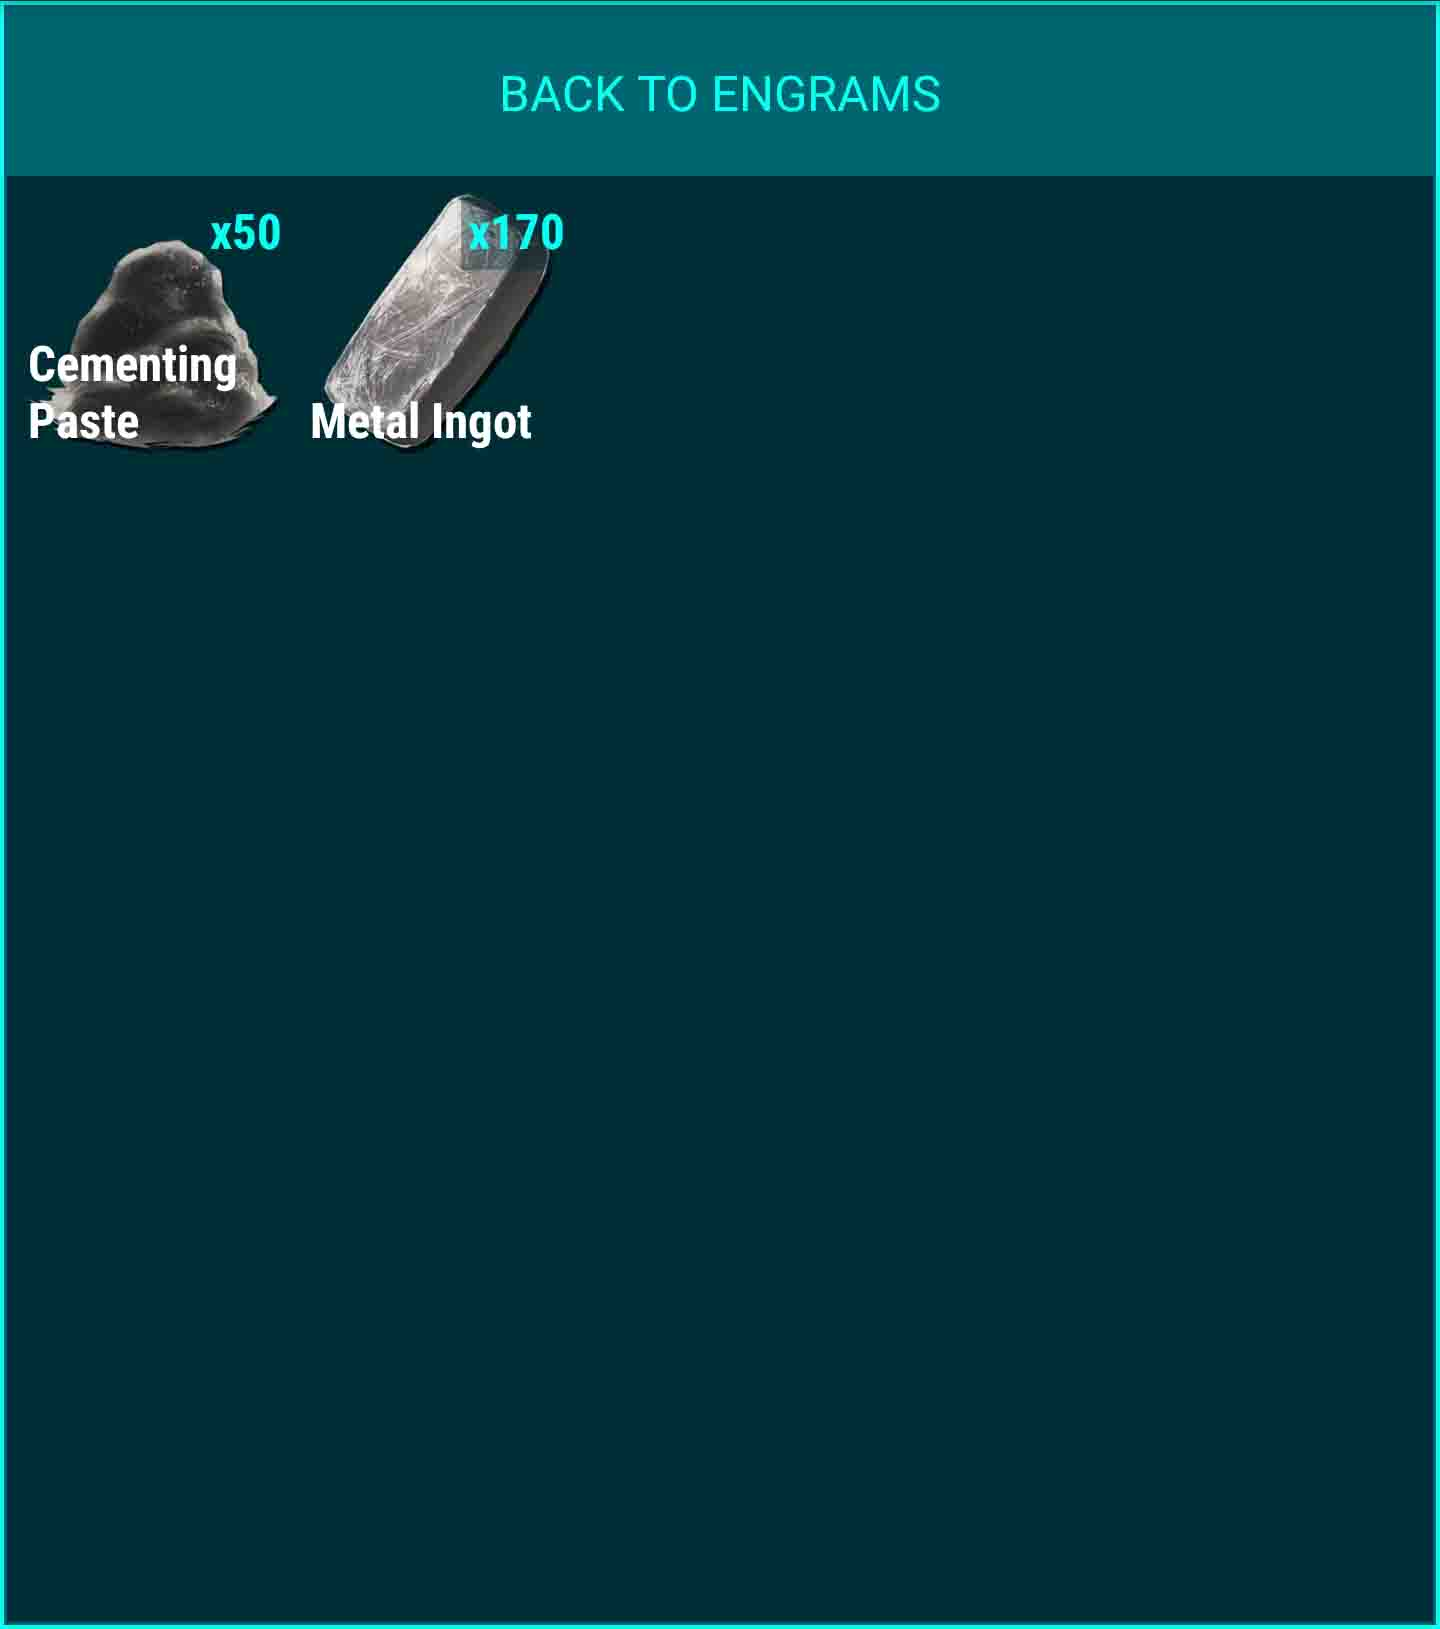
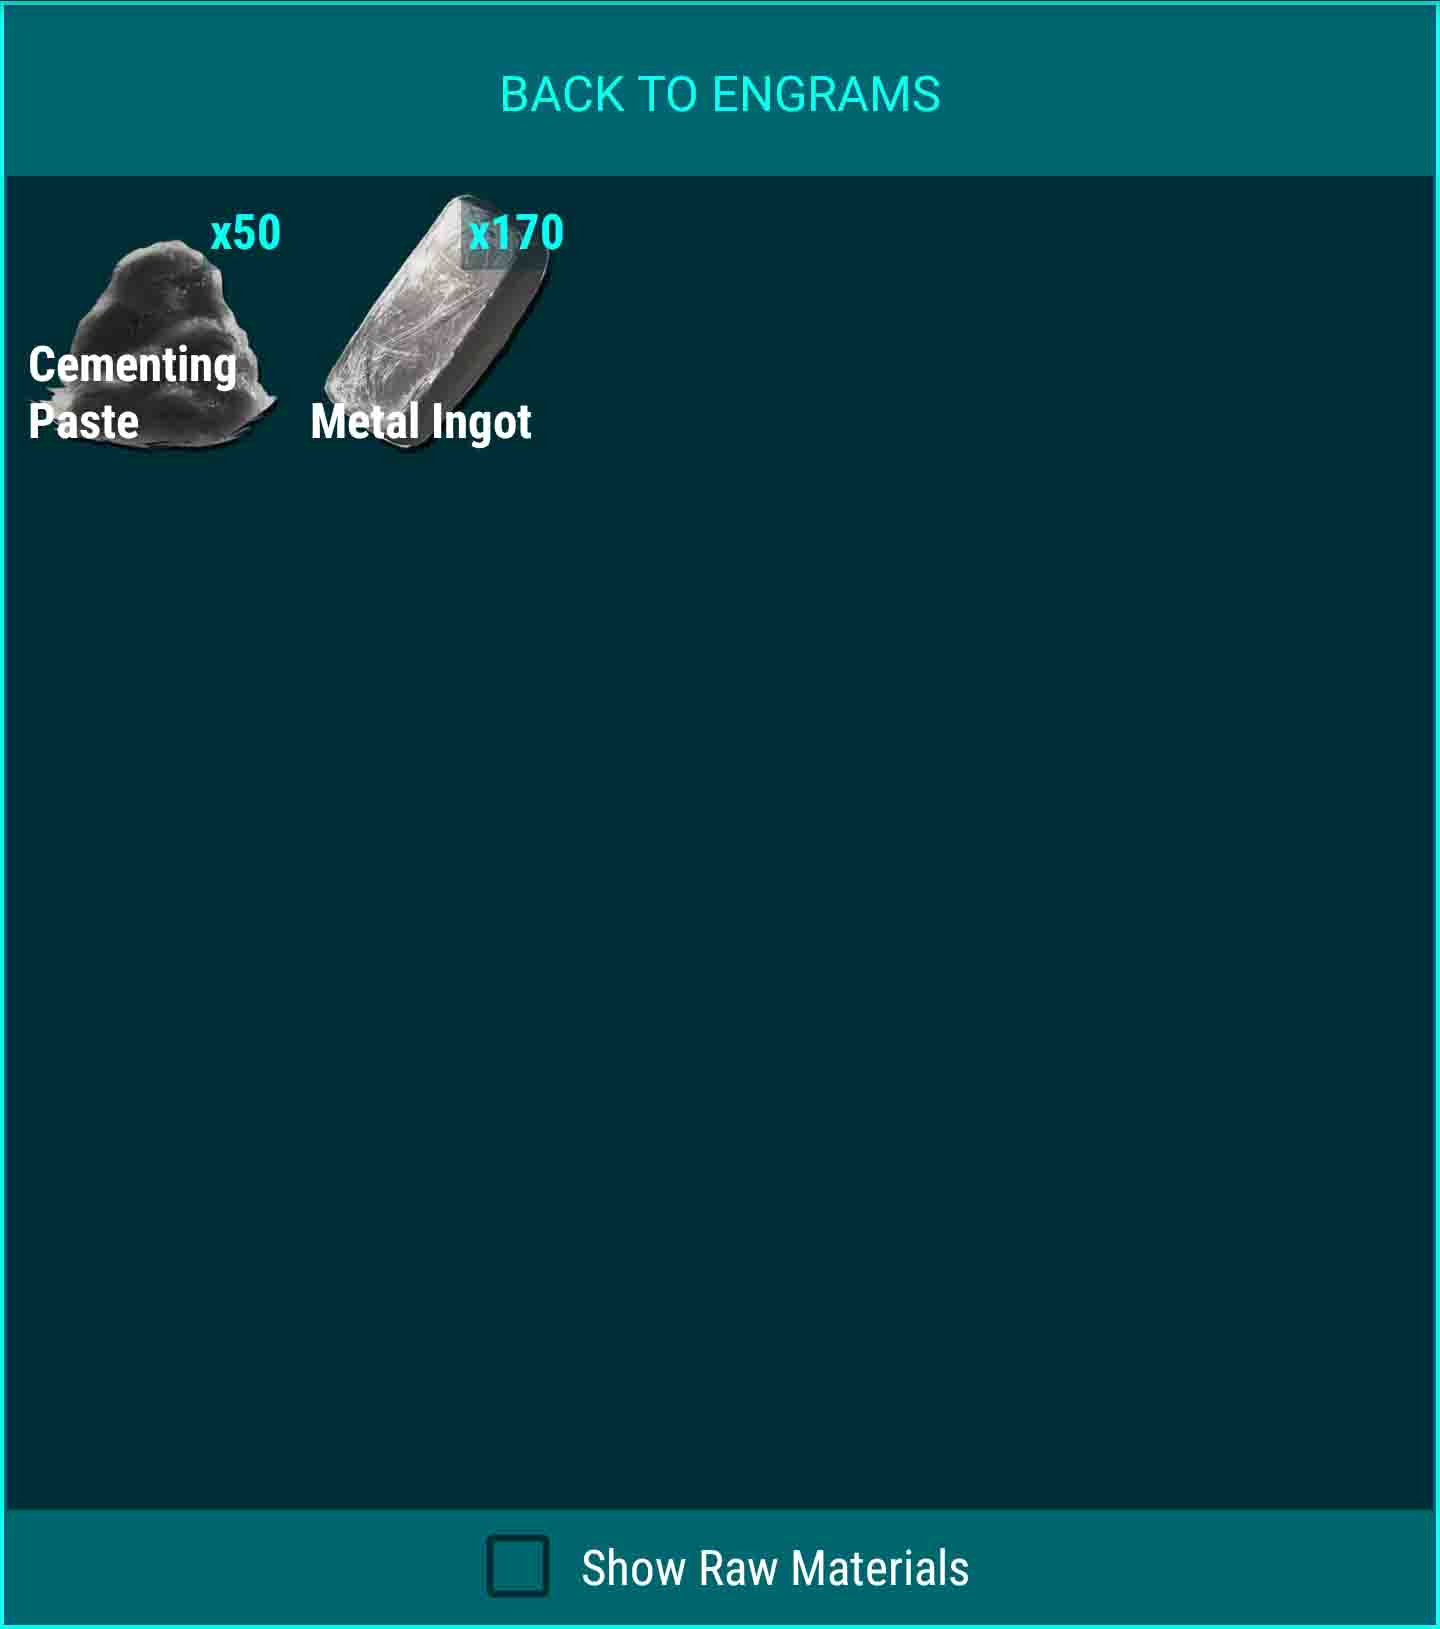
1.3.13 (Release)
Added Show Raw Materials to Tutorial.
Updated CraftableAdapter to cancel tasks before executing new tasks.
Updated Element in Resource Table of JSON file to not be Complex. Created a weird infinite loop between Element Shard and Element.
Updated changelog.

Changed region(s): [[0.0, 0.9208, 1.0, 1.0]]

diff --git a/app/src/main/java/arc/resource/calculator/adapters/CraftableAdapter.java b/app/src/main/java/arc/resource/calculator/adapters/CraftableAdapter.java
@@ -77,6 +77,9 @@ public class CraftableAdapter extends RecyclerView.Adapter<CraftableAdapter.View
 
     private Status mViewStatus;
 
+    private FetchDataTask mFetchDataTask;
+    private SearchDataTask mSearchDataTask;
+
     private boolean mNeedsUpdate;
 
     private boolean mNeedsFullUpdate;
@@ -164,7 +167,7 @@ public class CraftableAdapter extends RecyclerView.Adapter<CraftableAdapter.View
                     unsetSearchQuery();
 
                     if ( mViewStatus == VISIBLE ) {
-                        refreshData();
+                        fetchData();
                     } else {
                         mNeedsFullUpdate = true;
                     }
@@ -174,8 +177,11 @@ public class CraftableAdapter extends RecyclerView.Adapter<CraftableAdapter.View
 
         mViewStatus = INIT;
 
+        mFetchDataTask = new FetchDataTask();
+        mSearchDataTask = new SearchDataTask();
+
         if ( getSearchQuery() == null )
-            refreshData();
+            fetchData();
         else
             searchData();
     }
@@ -257,7 +263,7 @@ public class CraftableAdapter extends RecyclerView.Adapter<CraftableAdapter.View
             mViewStatus = VISIBLE;
 
             if ( mNeedsFullUpdate )
-                refreshData();
+                fetchData();
             else if ( mNeedsUpdate )
                 updateQuantities();
         }
@@ -663,7 +669,7 @@ public class CraftableAdapter extends RecyclerView.Adapter<CraftableAdapter.View
 
         savePrefs();
 
-        refreshData();
+        fetchData();
     }
 
     private Category queryForCategory( Uri uri )
@@ -740,7 +746,7 @@ public class CraftableAdapter extends RecyclerView.Adapter<CraftableAdapter.View
 
         savePrefs();
 
-        refreshData();
+        fetchData();
     }
 
     private Station queryForStation( Uri uri )
@@ -850,13 +856,20 @@ public class CraftableAdapter extends RecyclerView.Adapter<CraftableAdapter.View
         return builder.toString();
     }
 
-    private void refreshData() {
-        Log.d( TAG, "refreshData: " );
-        new QueryForDataTask().execute();
+    private void fetchData() {
+        mFetchDataTask.cancel( true );
+        mSearchDataTask.cancel( true );
+
+        mFetchDataTask = new FetchDataTask();
+        mFetchDataTask.execute();
     }
 
     private void searchData() {
-        new SearchDataTask().execute();
+        mFetchDataTask.cancel( true );
+        mSearchDataTask.cancel( true );
+
+        mSearchDataTask = new SearchDataTask();
+        mSearchDataTask.execute();
     }
 
     public void searchData( String searchQuery ) {
@@ -864,8 +877,8 @@ public class CraftableAdapter extends RecyclerView.Adapter<CraftableAdapter.View
         new SearchDataTask().execute();
     }
 
-    private class QueryForDataTask extends AsyncTask<Void, Void, Boolean> {
-        private final String TAG = QueryForDataTask.class.getSimpleName();
+    private class FetchDataTask extends AsyncTask<Void, Void, Boolean> {
+        private final String TAG = FetchDataTask.class.getSimpleName();
 
         private StationMap mTempStationMap;
         private CategoryMap mTempCategoryMap;
@@ -873,7 +886,7 @@ public class CraftableAdapter extends RecyclerView.Adapter<CraftableAdapter.View
 
         private Exception mException;
 
-        QueryForDataTask() {
+        FetchDataTask() {
         }
 
         @Override

diff --git a/app/src/main/java/arc/resource/calculator/adapters/InventoryAdapter.java b/app/src/main/java/arc/resource/calculator/adapters/InventoryAdapter.java
@@ -5,6 +5,7 @@ import android.database.Cursor;
 import android.net.Uri;
 import android.os.AsyncTask;
 import android.support.v7.widget.RecyclerView;
+import android.util.Log;
 import android.util.LongSparseArray;
 import android.view.LayoutInflater;
 import android.view.View;
@@ -225,11 +226,13 @@ public class InventoryAdapter extends RecyclerView.Adapter<InventoryAdapter.View
 
                 // check if refined filter is enabled
                 if ( mShowRawMaterials ) {
+                    Log.d( TAG, "QueryForComposition: showRawMaterials" );
                     // check if resource_id is complex
                     long engram_id = QueryForComplexResource( DatabaseContract.ComplexResourceEntry.buildUriWithResourceId( resource_id ) );
 
                     // if complex, return engram_id
                     if ( engram_id > NO_ID ) {
+                        Log.d( TAG, "QueryForComposition: engram_id is valid as complex resource" );
                         // query for composition with update uri built with engram_id
                         InventoryMap composition = QueryForComposition( DatabaseContract.CompositionEntry.buildUriWithEngramId( dlc_id, engram_id ) );
 
@@ -248,7 +251,7 @@ public class InventoryAdapter extends RecyclerView.Adapter<InventoryAdapter.View
                             else
                                 resource.increaseQuantity( tempResource.getQuantity() * quantity );
 
-                           inventoryMap.put( resource.getId(), resource );
+                            inventoryMap.put( resource.getId(), resource );
                         }
                     } else {
                         inventoryMap.add( resource_id,
@@ -418,6 +421,29 @@ public class InventoryAdapter extends RecyclerView.Adapter<InventoryAdapter.View
         InventoryMap() {
             super();
         }
+
+//        @Override
+//        public void add( long key, Object value ) {
+//            // check if key/value pair was added or not (if new or stored value)
+//            if ( contains( key ) ) {
+//                // update key/value pair with converged value
+//                CompositeResource tempResource = ( CompositeResource ) value;
+//
+//                CompositeResource resource = get( tempResource.getId() );
+//                if ( resource == null )
+//                    resource = new CompositeResource(
+//                            tempResource.getId(),
+//                            tempResource.getName(),
+//                            tempResource.getFolder(),
+//                            tempResource.getFile(),
+//                            tempResource.getQuantity() * queueEngram.getQuantity() );
+//                else
+//                    resource.increaseQuantity( tempResource.getQuantity() * queueEngram.getQuantity() );
+//            } else {
+//                // add new key/value pair
+//                addNew( key, value );
+//            }
+//        }
 
         @Override
         public CompositeResource get( long key ) {

diff --git a/app/src/main/java/arc/resource/calculator/FirstUseActivity.java b/app/src/main/java/arc/resource/calculator/FirstUseActivity.java
@@ -46,6 +46,10 @@ public class FirstUseActivity extends AppIntro {
                 R.string.content_intro_description_inventory,
                 "screen_inventory.jpg" ) );
 
+        addSlide( SlideFragment.newInstance( R.string.content_intro_title_inventory_raw_materials,
+                R.string.content_intro_description_inventory_raw_materials,
+                "screen_inventory_raw_materials.jpg" ) );
+
         addSlide( SlideFragment.newInstance( R.string.content_intro_title_dlc,
                 R.string.content_intro_description_dlc,
                 "screen_preferences.jpg" ) );

diff --git a/app/src/main/java/arc/resource/calculator/model/SortableMap.java b/app/src/main/java/arc/resource/calculator/model/SortableMap.java
@@ -88,6 +88,17 @@ public abstract class SortableMap {
         }
     }
 
+    /**
+     * Public method that, no matter if key exists, will add a new object to the lists.
+     * @param key   long value key taken from Object's _id (ROWID)
+     * @param value value that will be added to lists
+     */
+    public void addNew( long key, Object value ) {
+        mKeys.add( key );
+        mValues.add( value );
+        mSize++;
+    }
+
     public void addAll( SortableMap map ) {
         mKeys.addAll( map.keySet() );
         mValues.addAll( map.valueSet() );

diff --git a/app/src/main/java/arc/resource/calculator/util/DialogUtil.java b/app/src/main/java/arc/resource/calculator/util/DialogUtil.java
@@ -69,7 +69,7 @@ public class DialogUtil {
                     public void onClick( DialogInterface dialog, int which ) {
                         String quantityText = editText.getText().toString();
 
-                        if ( !quantityText.equals( "" ) && quantityText.length() < 5 ) {
+                        if ( !quantityText.equals( "" ) && quantityText.length() <= 6 ) {
                             int quantity = Integer.parseInt( quantityText );
 
                             if ( quantity > 0 )
